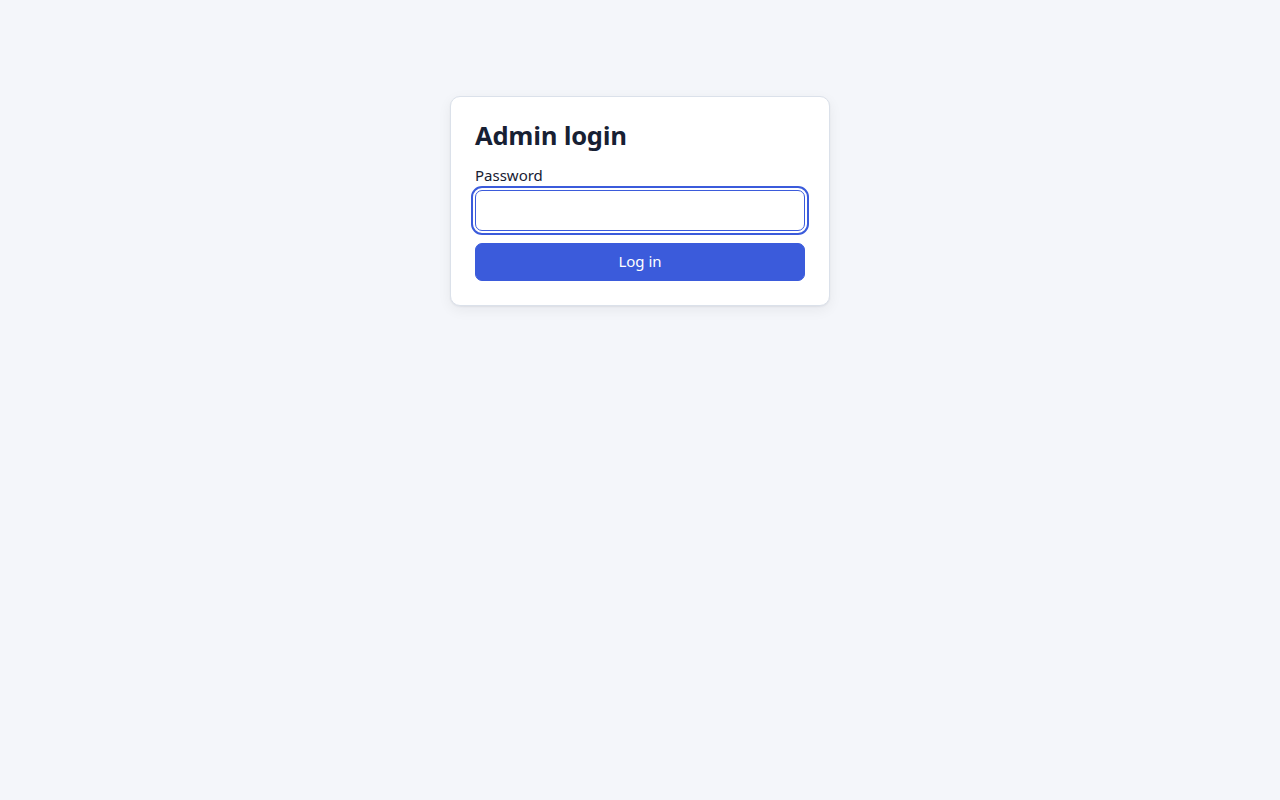
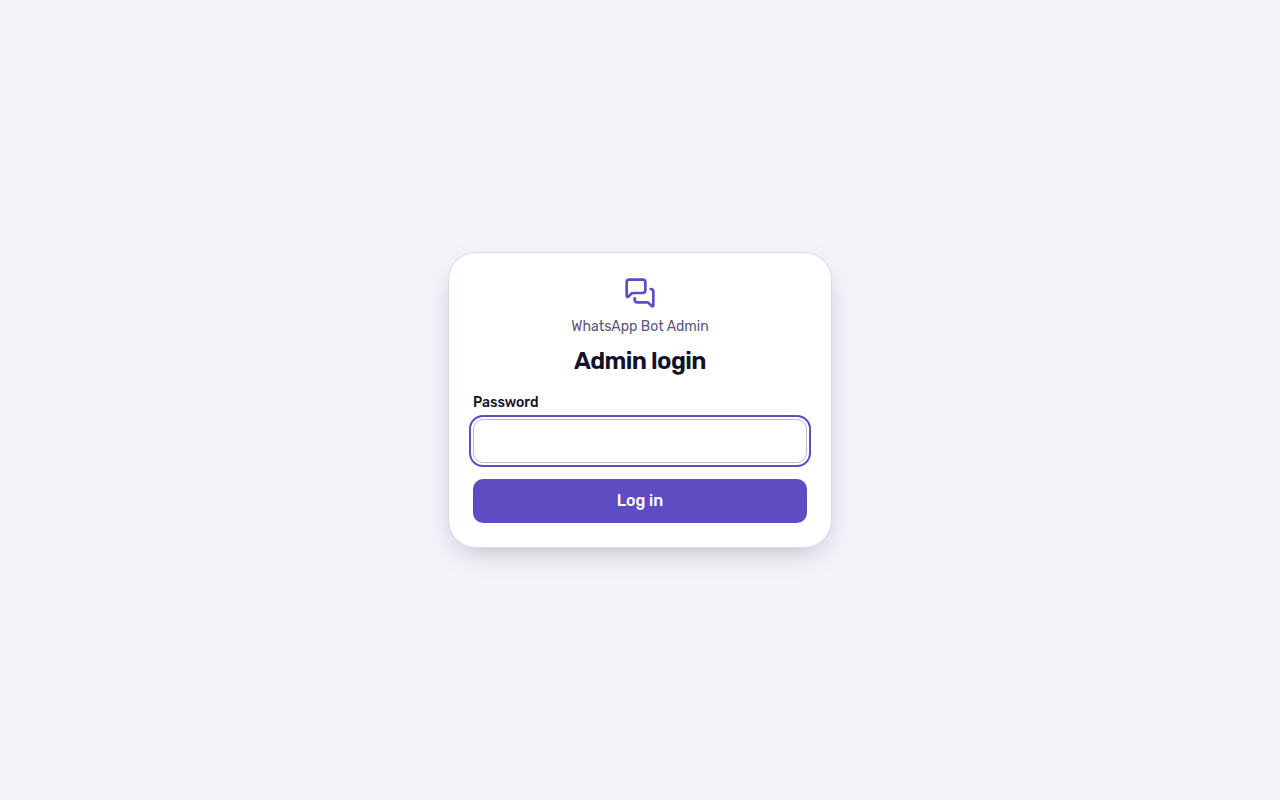
docs: describe the Iris-style admin UI and refresh screenshots

diff --git a/README.md b/README.md
@@ -161,7 +161,13 @@ A web admin UI (served at `/admin`) lets you manage the bot without touching the
 - **Messages**: read-only message browser with search and filters.
 - **Bot actions**: run group summaries or load the knowledge base on demand. After a summary run, a per-group result list shows which groups were sent, skipped (for example "9 of 15 messages needed") or failed, and why.
 
-The UI is responsive and mobile friendly: on narrow screens the navigation collapses behind a menu button and tables turn into stacked cards. Confirmations, errors and success messages are shown with SweetAlert2 dialogs and toasts, in light or dark theme following your system setting (or the Theme toggle).
+The UI follows the Iris design language: Rubik (bundled with the app, no external font requests), a violet primary colour, soft borders and rounded cards.
+
+- **Theme:** System, Light or Dark. Pick it in the account menu (sidebar footer) or in the **More** sheet on phones. The choice is remembered in the browser; System follows the OS setting live.
+- **Navigation:** a sidebar on desktop (labels from 1024px wide, icon-only on tablets from 768px) and, on phones, a header with a bottom tab bar (Groups, Contacts, Messages, Bot actions) plus a **More** sheet (Opt-outs, theme, log out).
+- **Responsive Groups:** a compact table from 1280px, cards below that (two columns from 768px, one column on phones). Contacts, Opt-outs and Messages turn into stacked cards on phones, and dialogs (Edit group, Schedules) become bottom sheets.
+- **Confirmations, errors and toasts** use SweetAlert2, themed to match light or dark.
+- **Accessibility:** a "Skip to content" link is the first tab stop, everything works from the keyboard, dialogs trap focus and return it to the control that opened them, and group names and JIDs render correctly for right-to-left (Hebrew) text.
 
 #### Enabling it
 
@@ -220,6 +226,22 @@ Fields: `weekdays` (non-empty list of integers, 0 = Sunday to 6 = Saturday), the
 ![Groups](assets/screenshots/admin-groups-light.png)
 ![Groups (dark)](assets/screenshots/admin-groups-dark.png)
 
+At about 900px the sidebar collapses to icons and Groups shows cards:
+
+![Groups with the icon-only sidebar](assets/screenshots/admin-sidebar-collapsed-light.png)
+
+The account menu holds the theme switch (System / Light / Dark) and log out:
+
+![Account menu](assets/screenshots/admin-account-menu-light.png)
+
+Between 768px and 1279px Groups shows cards; the full sidebar appears from 1024px:
+
+![Groups on a 1024px tablet](assets/screenshots/admin-groups-tablet-light.png)
+
+Toasts (SweetAlert2) appear in the top-right corner:
+
+![Toast](assets/screenshots/admin-toast-light.png)
+
 #### Schedules
 The Schedules dialog of a group, in light and dark:
 
@@ -229,8 +251,9 @@ The Schedules dialog of a group, in light and dark:
 Editing a group (display name, summary language and community keys):
 
 ![Edit group](assets/screenshots/admin-groups-edit-light.png)
+![Edit group (dark)](assets/screenshots/admin-groups-edit-dark.png)
 
-Enabling the bot asks for confirmation (SweetAlert2), in light and dark:
+Enabling the bot asks for confirmation (SweetAlert2):
 
 ![Enable bot confirmation](assets/screenshots/admin-groups-confirm-light.png)
 ![Enable bot confirmation (dark)](assets/screenshots/admin-groups-confirm-dark.png)
@@ -258,13 +281,16 @@ Summary results per group after a run:
 
 #### Mobile
 <p>
-<img src="assets/screenshots/admin-mobile-groups-light.png" alt="Groups on mobile" width="220">
-<img src="assets/screenshots/admin-mobile-schedules-light.png" alt="Schedules dialog on mobile" width="220">
-<img src="assets/screenshots/admin-mobile-schedules-dark.png" alt="Schedules dialog on mobile (dark)" width="220">
-<img src="assets/screenshots/admin-mobile-menu-light.png" alt="Mobile navigation menu" width="220">
-<img src="assets/screenshots/admin-mobile-messages-light.png" alt="Messages on mobile" width="220">
-<img src="assets/screenshots/admin-mobile-actions-light.png" alt="Bot actions on mobile" width="220">
-<img src="assets/screenshots/admin-mobile-groups-dark.png" alt="Groups on mobile (dark)" width="220">
+<img src="assets/screenshots/admin-mobile-groups-light.png" alt="Groups on mobile (light)" width="180">
+<img src="assets/screenshots/admin-mobile-groups-dark.png" alt="Groups on mobile (dark)" width="180">
+<img src="assets/screenshots/admin-mobile-messages-light.png" alt="Messages on mobile (light)" width="180">
+<img src="assets/screenshots/admin-mobile-messages-dark.png" alt="Messages on mobile (dark)" width="180">
+<img src="assets/screenshots/admin-mobile-actions-light.png" alt="Bot actions on mobile (light)" width="180">
+<img src="assets/screenshots/admin-mobile-actions-dark.png" alt="Bot actions on mobile (dark)" width="180">
+<img src="assets/screenshots/admin-mobile-schedules-light.png" alt="Schedules dialog on mobile (light)" width="180">
+<img src="assets/screenshots/admin-mobile-schedules-dark.png" alt="Schedules dialog on mobile (dark)" width="180">
+<img src="assets/screenshots/admin-mobile-more-light.png" alt="More sheet on mobile (light)" width="180">
+<img src="assets/screenshots/admin-mobile-more-dark.png" alt="More sheet on mobile (dark)" width="180">
 </p>
 
 ### 6. API usage
@@ -344,7 +370,7 @@ The `check` command runs formatting first, then executes linting, type checking,
 
 ### Frontend (admin UI)
 
-The admin UI is a React + Vite SPA in `web/` (Node 20):
+The admin UI is a React 19 + Vite SPA in `web/` (Node 20) styled with Tailwind CSS 4, Radix UI primitives, lucide icons and SweetAlert2. Design tokens (colours, radii, fonts) for light and dark live in `web/src/index.css`:
 
 ```bash
 cd web
